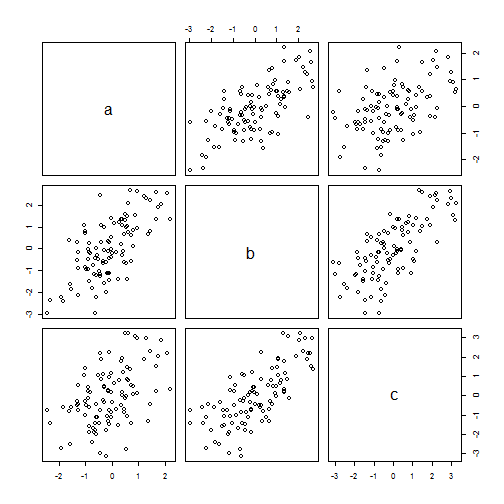
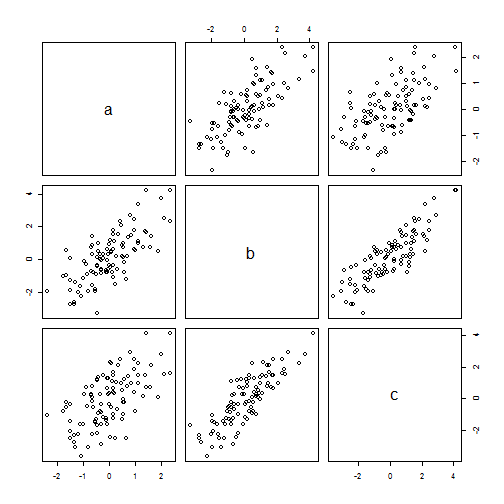
Assignment 0

diff --git a/SRT411-Assignment-0.md b/SRT411-Assignment-0.md
@@ -11,6 +11,7 @@ Output: html_document
 <br>
 
 <hr>
+### Synopsis
 <p>Assignment 0 is based on completing exercises from this document <a href="https://cran.r-project.org/doc/contrib/Torfs+Brauer-Short-R-Intro.pdf">A (very) short introduction to R</a> and submitting the code on GitHub. The document is an introduction to R language which consists of explanations, examples, and exercises that will help people without programming experience.</p>
 <hr>
 
@@ -146,7 +147,7 @@ sd(t$a+t$b+t$c)
 ```
 
 ```
-## [1] 3.290557
+## [1] 3.739482
 ```
 
 <hr>
@@ -341,6 +342,7 @@ a (arg1 = -5, arg2 = 95)
 <br>
 
 #### Sources
+<p><a href="https://cran.r-project.org/doc/contrib/Torfs+Brauer-Short-R-Intro.pdf">A (very) short introduction to R</a></p>
 <p><a href="http://rmarkdown.rstudio.com/">R Markdown</a></p>
 <p><a href="http://nicercode.github.io/guides/reports/">Writing Reports in R with Markdown, Knitr and Pandoc</a></p>
 <p><a href="http://kbroman.org/knitr_knutshell/pages/markdown.html">Knitr in a Nutshell</a></p>
